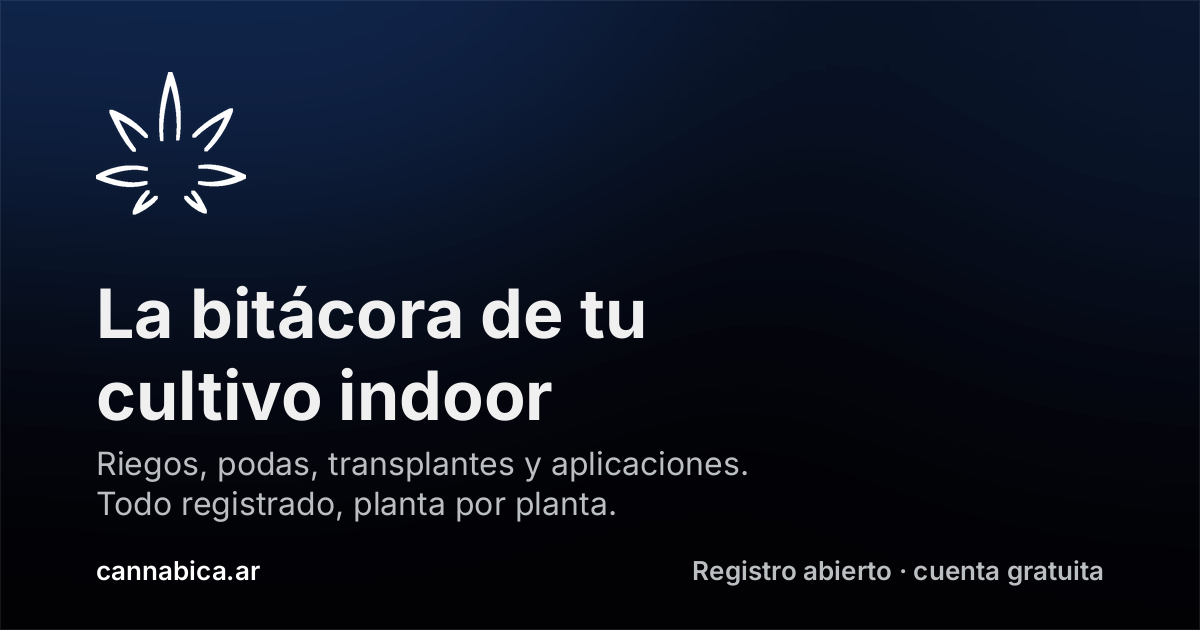
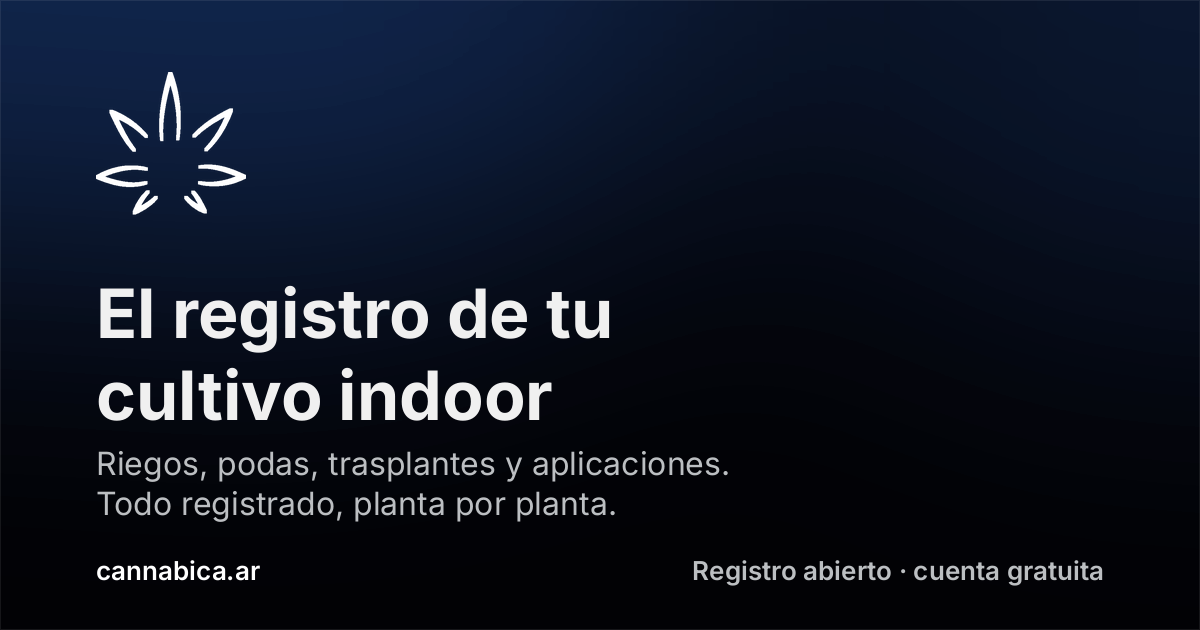
Landing capa 0 (ajustes): termino 'bitacora' fuera, jerarquia SEO, trasplantes, claim honesto
- 'bitacora' se reemplaza por 'registro' (medido: 0 apariciones en 582 notas del nicho; la marca ya usaba registro 91 vs 49). Aplica a title, description, lede, CTA y OG.
- 'Cannabica' fuera del meta keywords (pedido de Frankie) y canonical agregado
- jerarquia de encabezados: el h3 de 'Acerca del proyecto' pasa a h2 (salteaba h1 -> h3); CSS .about h3 -> .about h2 para conservar el tamano; orden final h1 > h2 > h2 > h2 > h3 x6 > h2
- 'transplantes' -> 'trasplantes' en toda la landing y en la tarjeta OG (forma correcta LatAm/AR)
- claim falso fuera: 'Construimos Cannabica junto a la comunidad de cultivadores' -> descripcion real del estado del proyecto; 'feedback de la comunidad' -> 'de quien la use'
- lang es -> es-AR

Changed region(s): [[0.0925, 0.4524, 0.555, 0.573], [0.3083, 0.7238, 0.6167, 0.754]]

diff --git a/index.html b/index.html
@@ -1,23 +1,24 @@
 <!doctype html>
-<html lang="es"><head>
+<html lang="es-AR"><head>
 <meta charset="utf-8">
 <meta name="viewport" content="width=device-width, initial-scale=1">
-<title>Cannabica — Bitácora de cultivo indoor</title>
-  <meta name="description" content="Llevá la bitácora de tu cultivo indoor: registrá riegos, podas, transplantes y aplicaciones, y seguí cada planta de la germinación a la cosecha. Creá tu cuenta gratis.">
-  <meta name="keywords" content="bitácora de cultivo, cultivo indoor, seguimiento de plantas, registro de riegos, cannabica">
+<title>Cannabica — Registro de cultivo indoor</title>
+  <meta name="description" content="Llevá el registro de tu cultivo indoor: anotá riegos, podas, trasplantes y aplicaciones, y seguí cada planta de la germinación a la cosecha. Creá tu cuenta gratis.">
+  <meta name="keywords" content="registro de cultivo, cultivo indoor, seguimiento de plantas, riegos y podas">
+  <link rel="canonical" href="https://cannabica.ar/">
   <meta property="og:type" content="website">
   <meta property="og:site_name" content="Cannabica">
   <meta property="og:locale" content="es_AR">
   <meta property="og:url" content="https://cannabica.ar/">
-  <meta property="og:title" content="Cannabica — Bitácora de cultivo indoor">
-  <meta property="og:description" content="Registrá riegos, podas, transplantes y aplicaciones, y seguí cada planta de la germinación a la cosecha.">
+  <meta property="og:title" content="Cannabica — Registro de cultivo indoor">
+  <meta property="og:description" content="Anotá riegos, podas, trasplantes y aplicaciones, y seguí cada planta de la germinación a la cosecha.">
   <meta property="og:image" content="https://cannabica.ar/assets/img/og-cannabica.png">
   <meta property="og:image:width" content="1200">
   <meta property="og:image:height" content="630">
-  <meta property="og:image:alt" content="Cannabica — Bitácora de cultivo indoor">
+  <meta property="og:image:alt" content="Cannabica — Registro de cultivo indoor">
   <meta name="twitter:card" content="summary_large_image">
-  <meta name="twitter:title" content="Cannabica — Bitácora de cultivo indoor">
-  <meta name="twitter:description" content="Registrá riegos, podas, transplantes y aplicaciones, y seguí cada planta de la germinación a la cosecha.">
+  <meta name="twitter:title" content="Cannabica — Registro de cultivo indoor">
+  <meta name="twitter:description" content="Anotá riegos, podas, trasplantes y aplicaciones, y seguí cada planta de la germinación a la cosecha.">
   <meta name="twitter:image" content="https://cannabica.ar/assets/img/og-cannabica.png">
   <link rel="apple-touch-icon" sizes="180x180" href="assets/img/apple-touch-icon.png">
   <link rel="icon" type="image/png" sizes="32x32" href="assets/img/favicon-32x32.png">
@@ -88,7 +89,7 @@
   /* About */
   .about-grid { display: grid; grid-template-columns: 1.1fr 1fr; gap: var(--space-2xl); align-items: center; }
   @media (max-width: 900px) { .about-grid { grid-template-columns: 1fr; } }
-  .about h3 { font-size: clamp(22px, 2.6vw, 30px); margin: var(--space-sm) 0 var(--space-md); }
+  .about h2 { font-size: clamp(22px, 2.6vw, 30px); margin: var(--space-sm) 0 var(--space-md); }
   .about p.lead { color: var(--text); font-size: 16.5px; }
   .about p.muted-note { color: var(--muted); font-size: 15px; margin-top: var(--space-md); }
   .leaf-deco { display: flex; justify-content: center; padding: var(--space-xl); }
@@ -147,7 +148,7 @@
       <div class="container">
         <img class="hero-img" src="assets/img/isologo-blue.png" alt="Isologo Cannabica">
         <h1>La plataforma que te acompaña en tus <em>ciclos de cultivo</em></h1>
-        <p class="lede">La bitácora de tu cultivo indoor: registrá cada cuidado y mirá crecer tu historial, de la germinación a la cosecha.</p>
+        <p class="lede">El registro de tu cultivo indoor: anotá cada cuidado y mirá crecer tu historial, de la germinación a la cosecha.</p>
         <div class="hero-actions">
           <a class="btn btn-primary btn-lg" href="https://plataforma.cannabica.ar/tenant/register">Crear cuenta gratuita</a>
           <a class="btn btn-ghost btn-lg" href="https://plataforma.cannabica.ar/tenant/login">Ingresar a la plataforma</a>
@@ -161,9 +162,9 @@
         <div class="about-grid">
           <div>
             <span class="eyebrow">Acerca del proyecto</span>
-            <h3>Cannabica es una herramienta para ayudarte en tus ciclos de cultivos.</h3>
-            <p class="lead">Construimos Cannabica junto a la comunidad de cultivadores, para simplificar el seguimiento del cultivo desde la germinación hasta la cosecha: registrá cada cuidado y armá el historial de tus plantas.</p>
-            <p class="muted-note">Ya tenemos un bot de Telegram en funcionamiento. Las próximas funciones se van a definir en un roadmap y buscamos el feedback de la comunidad para decidir las futuras actualizaciones.</p>
+            <h2>Cannabica es una herramienta para ayudarte en tus ciclos de cultivos.</h2>
+            <p class="lead">Anotá cada cuidado de tus plantas, de la germinación a la cosecha: un registro ordenado por planta, con fechas y detalles. Es un proyecto en desarrollo activo.</p>
+            <p class="muted-note">Ya tenemos un bot de Telegram en funcionamiento. Las próximas funciones se van a definir en un roadmap y buscamos el feedback de quien la use para decidir las futuras actualizaciones.</p>
           </div>
           <div class="leaf-deco">
             <!-- Ciclo cerrado de 4 etapas: semilla → plántula → vegetativa → floración -->
@@ -261,7 +262,7 @@
           </div>
           <div class="feature">
             <svg viewBox="0 0 24 24" fill="none" stroke="currentColor" stroke-width="1.8" stroke-linecap="round" stroke-linejoin="round"><path d="M5 11h14"></path><path d="M6.8 11 8.6 21h6.8l1.8-10"></path><path d="M12 11v-3.4"></path><path d="M12 8.6c-1.5-.4-2.7-1.3-3.3-3 1.6.4 2.7 1.2 3.3 3Z"></path><path d="M12 7.6c1.5-.5 2.7-1.3 3.3-2.7-1.6.5-2.7 1.4-3.3 2.7Z"></path></svg>
-            <div><h3>Registrar transplantes</h3><p>Seleccioná el tipo de maceta — plástico o geotextil — y la capacidad en litros.</p></div>
+            <div><h3>Registrar trasplantes</h3><p>Seleccioná el tipo de maceta — plástico o geotextil — y la capacidad en litros.</p></div>
           </div>
           <div class="feature">
             <svg viewBox="0 0 24 24" fill="none" stroke="currentColor" stroke-width="1.8" stroke-linecap="round" stroke-linejoin="round"><path d="M14.5 4h-5L7 7H4a2 2 0 0 0-2 2v9a2 2 0 0 0 2 2h16a2 2 0 0 0 2-2V9a2 2 0 0 0-2-2h-3l-2.5-3Z"></path><circle cx="12" cy="13" r="3"></circle></svg>
@@ -281,7 +282,7 @@
         <div class="cta">
           <div>
             <h2>Empezá hoy a registrar tus cultivos</h2>
-            <p>Registro abierto — creá tu cuenta gratuita y empezá tu bitácora.</p>
+            <p>Registro abierto — creá tu cuenta gratuita y empezá a anotar.</p>
           </div>
           <a class="btn btn-lg" href="https://plataforma.cannabica.ar/tenant/register">Crear cuenta gratuita</a>
         </div>
